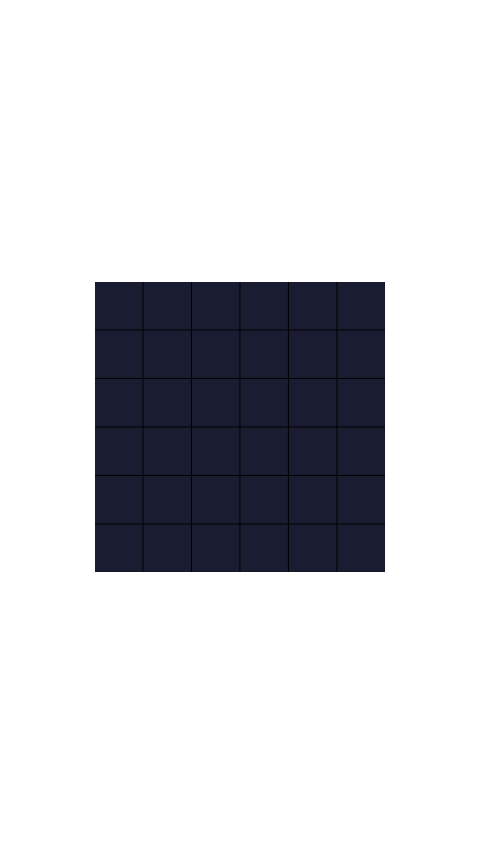
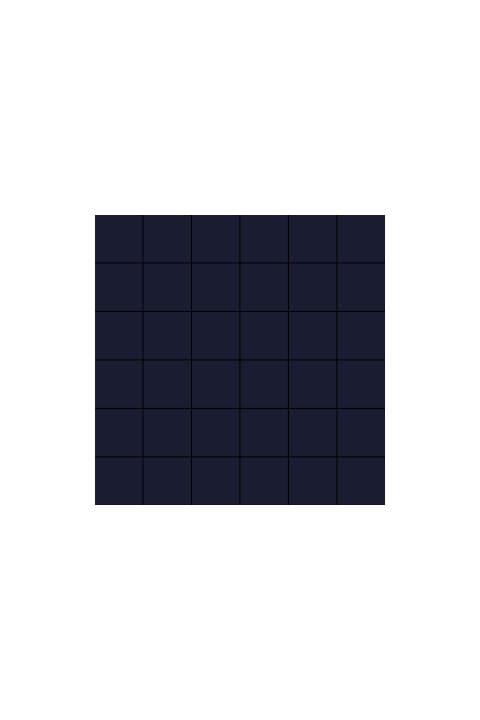
new graphics

Changed region(s): [[0.1875, 0.275, 0.8125, 0.3361], [0.1875, 0.6722, 0.8125, 0.7028]]

diff --git a/src/com/boombuler/games/shift/render/Background.java b/src/com/boombuler/games/shift/render/Background.java
@@ -25,7 +25,7 @@ import com.boombuler.games.shift.Main;
 public class Background extends CCSprite {
 
 	public Background() {
-		super("bground.png");
+		super("top.png");
 		CGSize s = CCDirector.sharedDirector().winSize();
 		setScaleX(Main.SCALE_X);
 		setScaleY(Main.SCALE_Y);
